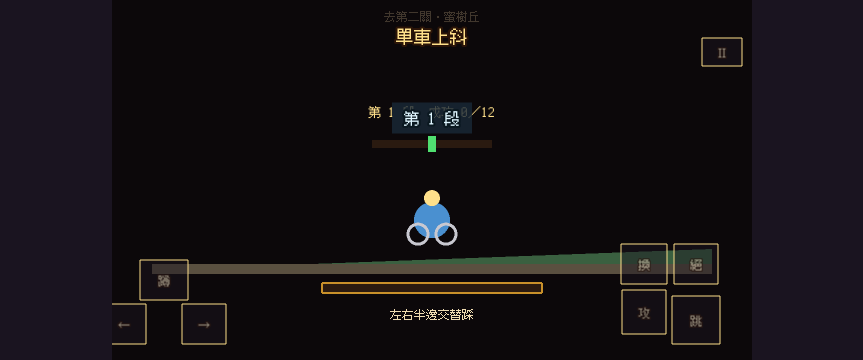
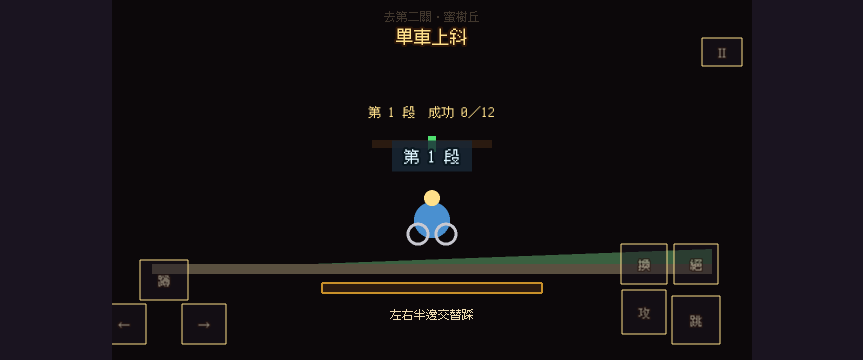
fix-play-1: move segment flash to mid-screen clear of title/status

Changed region(s): [[0.4519, 0.275, 0.5724, 0.4889]]

diff --git a/src/game/minigameFramework.ts b/src/game/minigameFramework.ts
@@ -174,10 +174,10 @@ export function applyGoldHeal(
   return healed
 }
 
-/** Segment banner between rounds — below transit title (TITLE_Y≈36), not overlapping (fix-play-1). */
+/** Segment flash — mid playfield so it clears transit title + status line (fix-play-1). */
 export function showSegmentBanner(scene: Phaser.Scene, seg: 1 | 2 | 3): Promise<void> {
   const t = scene.add
-    .text(GAME_W / 2, 118, `第 ${seg} 段`, {
+    .text(GAME_W / 2, GAME_H / 2 - 24, `第 ${seg} 段`, {
       fontFamily: FONT_TITLE,
       fontSize: '16px',
       color: '#dff6ff',
